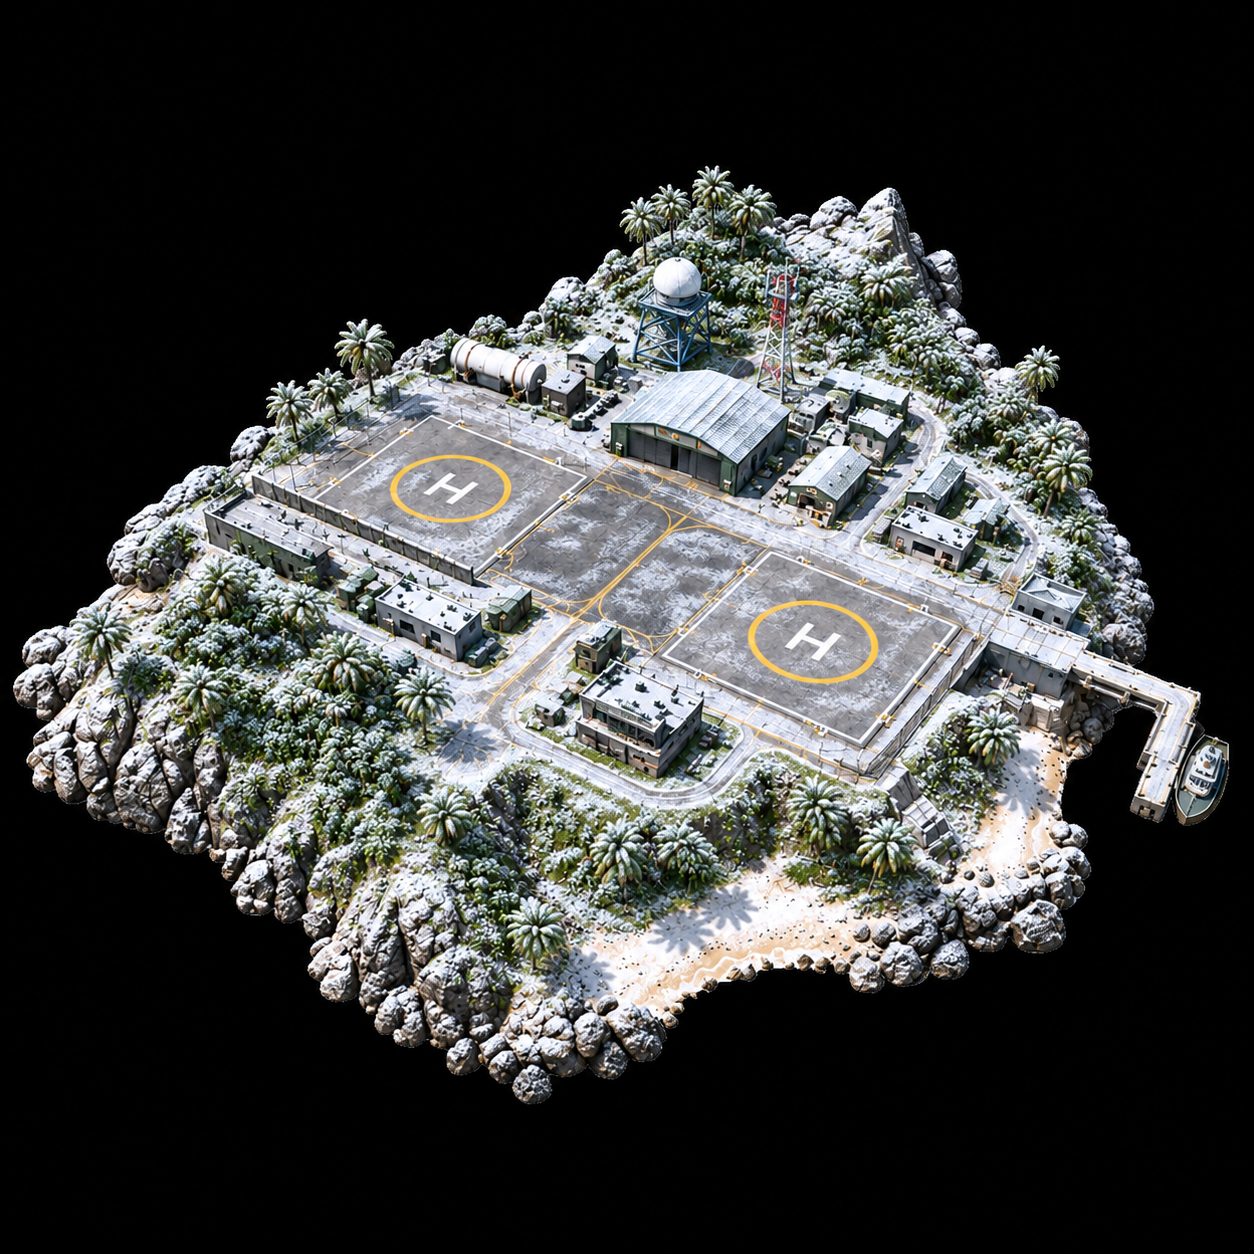
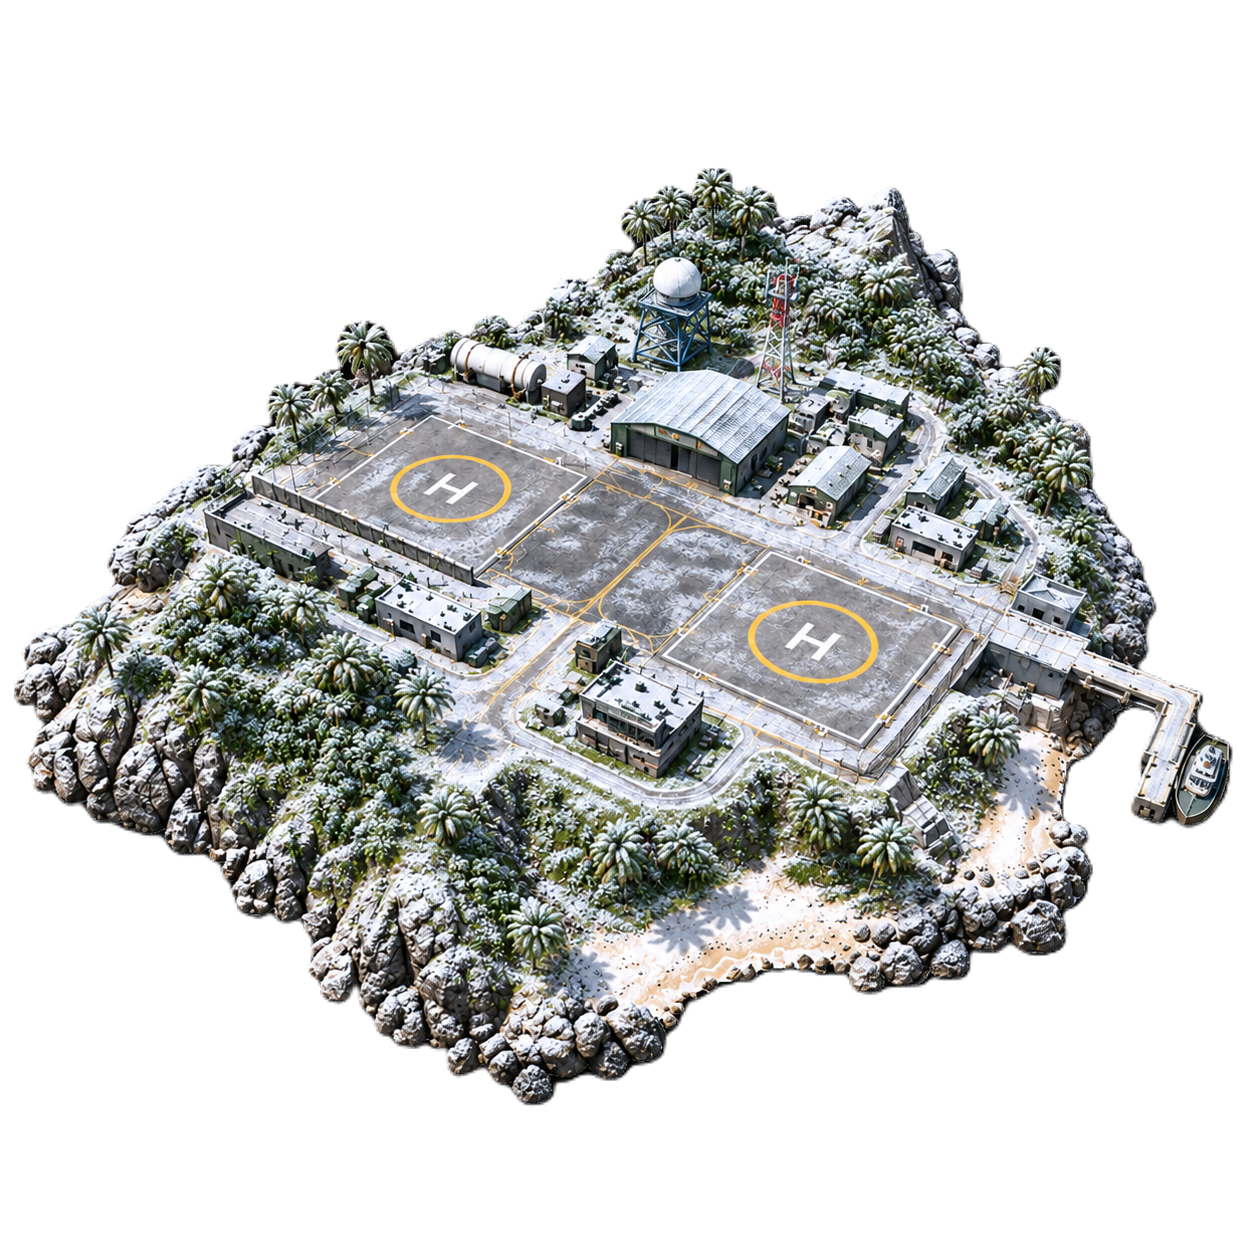
Add files via upload

diff --git a/mainbase.js b/mainbase.js
@@ -15,8 +15,9 @@ export class MainBase {
         
         this.baseTexture = new THREE.Texture();
         this.snowTexture = new THREE.Texture();
+        this.rainTexture = new THREE.Texture();
 
-        // Load mainbase.png directly as a clean transparent texture (background already removed)
+        // Load mainbase.png directly as a clean transparent texture
         textureLoader.load('mainbase.png', (tex) => {
             tex.colorSpace = THREE.SRGBColorSpace;
             tex.minFilter = THREE.LinearFilter;
@@ -27,10 +28,24 @@ export class MainBase {
             }
         });
 
-        // Load mainbase_snow.png using the dynamic background remover specifically for the snow version
-        this.loadTransparentTexture('mainbase_snow.png', (tex) => {
+        // Load mainbase_snow.png directly (assuming background is already cleanly removed)
+        textureLoader.load('mainbase_snow.png', (tex) => {
+            tex.colorSpace = THREE.SRGBColorSpace;
+            tex.minFilter = THREE.LinearFilter;
+            tex.magFilter = THREE.LinearFilter;
             this.snowTexture = tex;
             if (this.material.map === this.snowTexture) {
+                this.material.needsUpdate = true;
+            }
+        });
+
+        // Load mainbase_rain.png directly (assuming background is already cleanly removed)
+        textureLoader.load('mainbase_rain.png', (tex) => {
+            tex.colorSpace = THREE.SRGBColorSpace;
+            tex.minFilter = THREE.LinearFilter;
+            tex.magFilter = THREE.LinearFilter;
+            this.rainTexture = tex;
+            if (this.material.map === this.rainTexture) {
                 this.material.needsUpdate = true;
             }
         });
@@ -204,231 +219,7 @@ export class MainBase {
         this.buildLightGroup('red', 0xff0033);
         this.buildLightGroup('amber', 0xffaa00);
         this.buildLightGroup('white', 0xffffff);
-
-        /* --- CONFIGURABLE LIGHT TOOL (COMMENTED OUT / HIDDEN FROM GAME) ---
-        this.configurableLightConfig = {
-            x: 0.0,
-            y: 0.0,
-            z: 0.1,
-            scale: 0.1,
-            color: 'White',
-            name: 'New Light'
-        };
-
-        const colorMap = {
-            'Red': 0xff0033,
-            'Green': 0x00ff66,
-            'White': 0xffffff,
-            'Amber': 0xffaa00
-        };
-
-        const configGeo = new THREE.SphereGeometry(1, 16, 16);
-        const configMat = new THREE.MeshBasicMaterial({ color: colorMap[this.configurableLightConfig.color], depthTest: true });
-        this.configurableMarker = new THREE.Mesh(configGeo, configMat);
-        this.configurableMarker.position.set(this.configurableLightConfig.x, this.configurableLightConfig.y, this.configurableLightConfig.z);
-        this.configurableMarker.scale.set(this.configurableLightConfig.scale, this.configurableLightConfig.scale, this.configurableLightConfig.scale);
-        this.group.add(this.configurableMarker);
-
-        this.configurablePointLight = new THREE.PointLight(colorMap[this.configurableLightConfig.color], 0.0, 15);
-        this.configurablePointLight.position.set(this.configurableLightConfig.x, this.configurableLightConfig.y, this.configurableLightConfig.z);
-        this.group.add(this.configurablePointLight);
-
-        this.initConfigurableLightTool();
-        ------------------------------------------------------------- */
     }
-
-    /* --- COMMENTED OUT TOOL FUNCTION (Uncomment when you want to use it again) ---
-    initConfigurableLightTool() {
-        const toggleBtn = document.createElement('button');
-        toggleBtn.textContent = '⚙ Light Tool';
-        toggleBtn.style.position = 'absolute';
-        toggleBtn.style.top = '10px';
-        toggleBtn.style.right = '10px';
-        toggleBtn.style.backgroundColor = 'rgba(0, 0, 0, 0.85)';
-        toggleBtn.style.color = '#ffffff';
-        toggleBtn.style.border = '1px solid #555';
-        toggleBtn.style.padding = '6px 10px';
-        toggleBtn.style.borderRadius = '4px';
-        toggleBtn.style.cursor = 'pointer';
-        toggleBtn.style.zIndex = '9999';
-        toggleBtn.style.fontFamily = 'sans-serif';
-        toggleBtn.style.fontSize = '12px';
-        document.body.appendChild(toggleBtn);
-
-        const container = document.createElement('div');
-        container.style.position = 'absolute';
-        container.style.top = '10px';
-        container.style.right = '10px';
-        container.style.backgroundColor = 'rgba(0, 0, 0, 0.85)';
-        container.style.color = '#ffffff';
-        container.style.padding = '12px';
-        container.style.borderRadius = '8px';
-        container.style.fontFamily = 'sans-serif';
-        container.style.fontSize = '12px';
-        container.style.zIndex = '9999';
-        container.style.boxShadow = '0 4px 6px rgba(0,0,0,0.3)';
-        container.style.width = '240px';
-        container.style.display = 'none';
-
-        container.innerHTML = `
-            <div style="font-weight: bold; margin-bottom: 8px; border-bottom: 1px solid #555; padding-bottom: 4px; display: flex; justify-content: space-between; align-items: center;">
-                <span>Configurable Light Controls</span>
-                <button id="closeBtn" style="background: none; border: none; color: #aaa; cursor: pointer; font-size: 14px; font-weight: bold;">✕</button>
-            </div>
-            
-            <div style="margin-bottom: 8px; display: flex; justify-content: space-between; align-items: center;">
-                <label>Light Name:</label>
-                <input type="text" id="lightName" value="${this.configurableLightConfig.name}" style="width: 100px; background: #222; color: #fff; border: 1px solid #555; padding: 2px 4px; border-radius: 4px;">
-            </div>
-
-            <div style="margin-bottom: 8px; display: flex; justify-content: space-between; align-items: center;">
-                <label>Color:</label>
-                <select id="colorSelect" style="width: 100px; background: #222; color: #fff; border: 1px solid #555; padding: 2px 4px; border-radius: 4px;">
-                    <option value="Red">Red</option>
-                    <option value="Green">Green</option>
-                    <option value="White" selected>White</option>
-                    <option value="Amber">Amber</option>
-                </select>
-            </div>
-
-            <div style="margin-bottom: 8px; display: flex; justify-content: space-between; align-items: center;">
-                <label>X Position:</label>
-                <input type="number" id="numX" step="0.01" value="${this.configurableLightConfig.x}" style="width: 90px; background: #222; color: #fff; border: 1px solid #555; padding: 2px 4px; border-radius: 4px;">
-            </div>
-            <input type="range" id="posX" min="-30" max="30" step="0.01" value="${this.configurableLightConfig.x}" style="width: 100%; margin-bottom: 8px;">
-
-            <div style="margin-bottom: 8px; display: flex; justify-content: space-between; align-items: center;">
-                <label>Y Position:</label>
-                <input type="number" id="numY" step="0.01" value="${this.configurableLightConfig.y}" style="width: 90px; background: #222; color: #fff; border: 1px solid #555; padding: 2px 4px; border-radius: 4px;">
-            </div>
-            <input type="range" id="posY" min="-30" max="30" step="0.01" value="${this.configurableLightConfig.y}" style="width: 100%; margin-bottom: 8px;">
-
-            <div style="margin-bottom: 8px; display: flex; justify-content: space-between; align-items: center;">
-                <label>Z Position:</label>
-                <input type="number" id="numZ" step="0.01" value="${this.configurableLightConfig.z}" style="width: 90px; background: #222; color: #fff; border: 1px solid #555; padding: 2px 4px; border-radius: 4px;">
-            </div>
-            <input type="range" id="posZ" min="-5" max="10" step="0.01" value="${this.configurableLightConfig.z}" style="width: 100%; margin-bottom: 8px;">
-
-            <div style="margin-bottom: 8px; display: flex; justify-content: space-between; align-items: center;">
-                <label>Scale:</label>
-                <input type="number" id="numScale" step="0.01" value="${this.configurableLightConfig.scale}" style="width: 90px; background: #222; color: #fff; border: 1px solid #555; padding: 2px 4px; border-radius: 4px;">
-            </div>
-            <input type="range" id="scale" min="0.01" max="0.5" step="0.01" value="${this.configurableLightConfig.scale}" style="width: 100%; margin-bottom: 10px;">
-
-            <button id="printBtn" style="width: 100%; background: #0088cc; color: #fff; border: none; padding: 6px; border-radius: 4px; font-weight: bold; cursor: pointer;">Print Light Info to Console</button>
-        `;
-
-        document.body.appendChild(container);
-
-        toggleBtn.addEventListener('click', () => {
-            container.style.display = 'block';
-            toggleBtn.style.display = 'none';
-        });
-
-        container.querySelector('#closeBtn').addEventListener('click', () => {
-            container.style.display = 'none';
-            toggleBtn.style.display = 'block';
-        });
-
-        const colorMap = {
-            'Red': 0xff0033,
-            'Green': 0x00ff66,
-            'White': 0xffffff,
-            'Amber': 0xffaa00
-        };
-
-        const updateLightProps = () => {
-            this.configurableMarker.position.set(this.configurableLightConfig.x, this.configurableLightConfig.y, this.configurableLightConfig.z);
-            this.configurablePointLight.position.set(this.configurableLightConfig.x, this.configurableLightConfig.y, this.configurableLightConfig.z);
-            this.configurableMarker.scale.set(this.configurableLightConfig.scale, this.configurableLightConfig.scale, this.configurableLightConfig.scale);
-            
-            const hexColor = colorMap[this.configurableLightConfig.color] || 0xffffff;
-            this.configurableMarker.material.color.setHex(hexColor);
-            this.configurablePointLight.color.setHex(hexColor);
-        };
-
-        container.querySelector('#lightName').addEventListener('input', (e) => {
-            this.configurableLightConfig.name = e.target.value;
-        });
-
-        container.querySelector('#colorSelect').addEventListener('change', (e) => {
-            this.configurableLightConfig.color = e.target.value;
-            updateLightProps();
-        });
-
-        container.querySelector('#printBtn').addEventListener('click', () => {
-            const codeSnippet = `{ x: ${this.configurableLightConfig.x}, y: ${this.configurableLightConfig.y}, z: ${this.configurableLightConfig.z}, scale: ${this.configurableLightConfig.scale}, flashing: false }, // ${this.configurableLightConfig.name} (${this.configurableLightConfig.color})`;
-            console.log("--- Configured Light Code Snippet ---");
-            console.log(codeSnippet);
-        });
-
-        const bindSync = (numId, rangeId, propName) => {
-            const numInput = container.querySelector(`#${numId}`);
-            const rangeInput = container.querySelector(`#${rangeId}`);
-
-            numInput.addEventListener('input', (e) => {
-                const val = parseFloat(e.target.value);
-                if (!isNaN(val)) {
-                    this.configurableLightConfig[propName] = val;
-                    rangeInput.value = val;
-                    updateLightProps();
-                }
-            });
-
-            rangeInput.addEventListener('input', (e) => {
-                const val = parseFloat(e.target.value);
-                this.configurableLightConfig[propName] = val;
-                numInput.value = val;
-                updateLightProps();
-            });
-        };
-
-        bindSync('numX', 'posX', 'x');
-        bindSync('numY', 'posY', 'y');
-        bindSync('numZ', 'posZ', 'z');
-        bindSync('numScale', 'scale', 'scale');
-    }
-    -------------------------------------------------------------- */
-
-    loadTransparentTexture(url, callback) {
-        const img = new Image();
-        img.src = url;
-        img.onload = () => {
-            const canvas = document.createElement('canvas');
-            canvas.width = img.width;
-            canvas.height = img.height;
-            const ctx = canvas.getContext('2d');
-            ctx.drawImage(img, 0, 0);
-
-            const imgData = ctx.getImageData(0, 0, canvas.width, canvas.height);
-            const data = imgData.data;
-
-            const bgR = data[0];
-            const bgG = data[1];
-            const bgB = data[2];
-
-            for (let i = 0; i < data.length; i += 4) {
-                const r = data[i];
-                const g = data[i + 1];
-                const b = data[i + 2];
-
-                if (Math.abs(r - bgR) < 20 && Math.abs(g - bgG) < 20 && Math.abs(b - bgB) < 20) {
-                    data[i + 3] = 0;
-                }
-            }
-
-            ctx.putImageData(imgData, 0, 0);
-
-            const texture = new THREE.CanvasTexture(canvas);
-            texture.colorSpace = THREE.SRGBColorSpace;
-            texture.minFilter = THREE.LinearFilter;
-            texture.magFilter = THREE.LinearFilter;
-
-            if (callback) callback(texture);
-        };
-    }
-
-    resetFade() {}
 
     buildLightGroup(category, colorHex) {
         if (!this.lightConfigs[category]) return;
@@ -457,7 +248,8 @@ export class MainBase {
     update(delta, nightFactor, cameraQuaternion, searchLightSystem = null, weather = '') {
         const weatherStr = (weather || window.weather || window.currentWeather || '').toString().toUpperCase();
         const hasSnow = weatherStr.includes('SNOW');
-        const targetMap = hasSnow ? this.snowTexture : this.baseTexture;
+        const hasRain = weatherStr.includes('RAIN');
+        const targetMap = hasSnow ? this.snowTexture : (hasRain ? this.rainTexture : this.baseTexture);
         if (this.material.map !== targetMap) {
             this.material.map = targetMap;
             this.material.needsUpdate = true;
